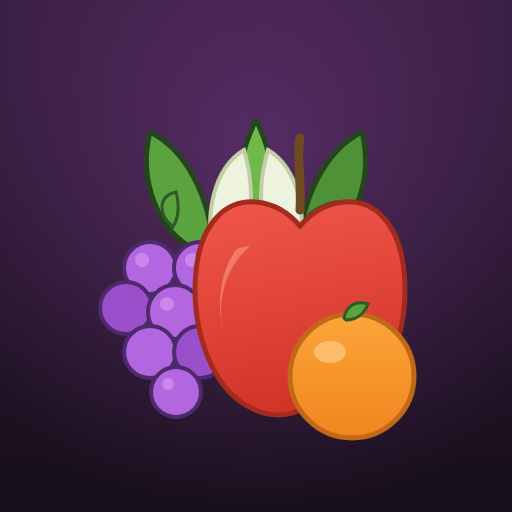
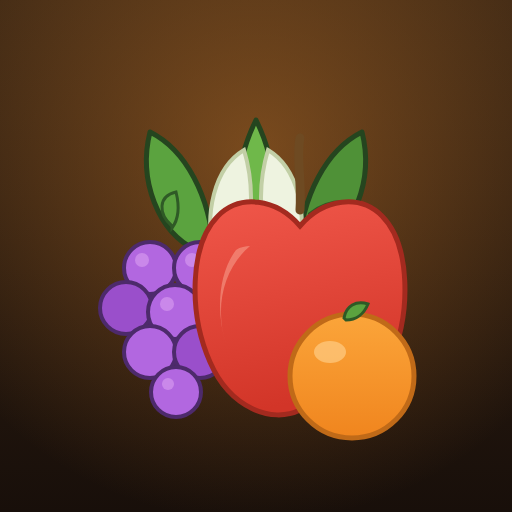
精準進貨：主色改芒果橘＋暖色底，圖示背景同步暖化
- 主色：葡萄紫 → 芒果橘（--leaf #C061E0→#FF9A2E）
- 底色：深莓紫 → 深暖褐（--bg #191016→#1C130F，panel/line 同步暖化）
- 標題／關於 wordmark 漸層、搜尋放大鏡、theme-color、manifest 同步芒果橘暖系
- 漲跌仍用 西瓜紅/奇異果綠/香蕉黃 水果語意色，維持辨識度
- App 圖示背景由莓紫改暖琥珀，蔬果組合不變（蘋果＋葡萄＋柑橘＋葉菜）

Claude-Session: https://claude.ai/code/session_01JVMRULg4pPU2tH4ma1vD4R

diff --git a/index.html b/index.html
@@ -7,7 +7,7 @@
 <link rel="icon" type="image/svg+xml" href="icon.svg" />
 <link rel="icon" type="image/png" sizes="192x192" href="icon-192.png" />
 <link rel="manifest" href="manifest.json" />
-<meta name="theme-color" content="#191016" />
+<meta name="theme-color" content="#1C130F" />
 <meta name="mobile-web-app-capable" content="yes" />
 <meta name="apple-mobile-web-app-capable" content="yes" />
 <meta name="apple-mobile-web-app-status-bar-style" content="black-translucent" />
@@ -18,10 +18,10 @@
   :root[data-fs="s"]{ font-size:16px; } :root[data-fs="m"]{ font-size:19px; }
   :root[data-fs="l"]{ font-size:23px; } :root[data-fs="xl"]{ font-size:28px; }
   :root{
-    /* 精準進貨（商人版）水果配色：深莓紫底＋葡萄/火龍果紫主色，與精準務農綠色系做區別；
+    /* 精準進貨（商人版）水果配色：芒果橘主色＋深暖底，與精準務農綠色系做區別；
        漲跌沿用 西瓜紅(貴)/奇異果綠(便宜)/香蕉黃(持平) 水果語意色 */
-    --bg:#191016; --panel:#241726; --panel2:#301F31; --line:#412940;
-    --leaf:#C061E0; --leaf-dim:#8C3FA8; --paper:#F5EAF0; --muted:#AF95AC;
+    --bg:#1C130F; --panel:#271A13; --panel2:#33241A; --line:#45321F;
+    --leaf:#FF9A2E; --leaf-dim:#B86718; --paper:#F6ECE0; --muted:#B39C86;
     --g:#7CC24A; --y:#F2B705; --o:#E8862E; --r:#E4572E; --cool:#5FB4D6;
     --radius:16px;
   }
@@ -39,9 +39,9 @@
 
   header{display:flex;align-items:center;gap:0.5rem;flex-wrap:wrap;padding-bottom:0.7rem;border-bottom:1px solid var(--line);}
   header h1{font-size:1.6rem;font-weight:900;margin:0;letter-spacing:3px;line-height:1.1;
-    background:linear-gradient(96deg,#FFB03A 0%,#FF6F91 30%,#C061E0 60%,#7CC24A 100%);background-size:220% 100%;
+    background:linear-gradient(96deg,#FFC24A 0%,#FF9A2E 32%,#FF6F3C 66%,#FFC24A 100%);background-size:220% 100%;
     -webkit-background-clip:text;background-clip:text;-webkit-text-fill-color:transparent;color:transparent;
-    filter:drop-shadow(0 1px 6px rgba(192,97,224,.5));animation:hsheen 7s linear infinite;}
+    filter:drop-shadow(0 1px 6px rgba(255,154,46,.5));animation:hsheen 7s linear infinite;}
   @keyframes hsheen{to{background-position:220% 0;}}
   .gear{background:var(--panel2);border:1px solid var(--line);color:var(--paper);
     width:2.4rem;height:2.4rem;border-radius:50%;font-size:1.2rem;display:flex;align-items:center;justify-content:center;flex:0 0 auto;}
@@ -120,7 +120,7 @@
   /* 查價線標籤（右側價格、底部日期），用 HTML 疊在圖上避免 SVG 拉伸變形 */
   .axlabel{position:absolute;font-size:0.72rem;font-weight:800;padding:0.05rem 0.35rem;border-radius:6px;
     pointer-events:none;white-space:nowrap;z-index:2;display:none;}
-  .axlabel.px{background:var(--paper);color:#191016;right:2px;transform:translateY(-50%);}
+  .axlabel.px{background:var(--paper);color:#1C130F;right:2px;transform:translateY(-50%);}
   .axlabel.dt{background:var(--panel2);color:var(--paper);border:1px solid var(--line);bottom:0;transform:translateX(-50%);}
   /* Y 軸最高/最低價刻度（隨公斤/台斤切換），常顯 */
   .axlabel.axmax,.axlabel.axmin{display:block;background:rgba(18,22,14,.7);color:var(--muted);font-weight:700;font-size:0.66rem;right:2px;}
@@ -343,9 +343,9 @@
   .foldh:active{background:var(--panel);}
   .foldh .foldi{color:var(--muted);transition:transform .2s;} .foldh[aria-expanded="true"] .foldi{transform:rotate(90deg);}
   .foldbody{margin-top:0.6rem;}
-  .aboutcard{background:linear-gradient(135deg,#2a1826,#1d1320);border:1px solid var(--line);border-radius:16px;padding:1rem;text-align:center;margin-bottom:0.6rem;}
+  .aboutcard{background:linear-gradient(135deg,#2c1d12,#20140d);border:1px solid var(--line);border-radius:16px;padding:1rem;text-align:center;margin-bottom:0.6rem;}
   .aboutcard .alogo{font-size:1.5rem;font-weight:900;letter-spacing:2px;
-    background:linear-gradient(96deg,#FFB03A 0%,#FF6F91 30%,#C061E0 60%,#7CC24A 100%);
+    background:linear-gradient(96deg,#FFC24A 0%,#FF9A2E 32%,#FF6F3C 66%,#FFC24A 100%);
     -webkit-background-clip:text;background-clip:text;-webkit-text-fill-color:transparent;color:transparent;}
   .aboutcard .atag{font-size:0.78rem;color:var(--muted);margin-top:0.2rem;line-height:1.5;}
   .aver{display:table;margin:0.8rem auto 0.2rem;font-size:0.72rem;color:var(--muted);background:var(--panel2);border:1px solid var(--line);border-radius:999px;padding:0.2rem 0.8rem;}
@@ -660,7 +660,7 @@ function cropSvg(crop,variety){return CROP_SVG[variety]||CROP_SVG[crop]||"";}
 /* 水果品項/品種多、插圖難精準 → 改用放大鏡，點了直接 Google 圖片搜尋看實際照片（零版權，不自存圖） */
 function cropSearchURL(crop,variety){const q=(variety&&variety!==crop)?`${variety} ${crop}`:crop;
   return `https://www.google.com/search?tbm=isch&q=${encodeURIComponent(q)}`;}
-const SEARCH_SVG=`<svg viewBox="0 0 96 96"><circle cx="42" cy="42" r="23" fill="rgba(192,97,224,.14)" stroke="#C061E0" stroke-width="7"/><line x1="59" y1="59" x2="80" y2="80" stroke="#C061E0" stroke-width="8" stroke-linecap="round"/></svg>`;
+const SEARCH_SVG=`<svg viewBox="0 0 96 96"><circle cx="42" cy="42" r="23" fill="rgba(255,154,46,.16)" stroke="#FF9A2E" stroke-width="7"/><line x1="59" y1="59" x2="80" y2="80" stroke="#FF9A2E" stroke-width="8" stroke-linecap="round"/></svg>`;
 /* 蔬菜插圖已全面取消 → 蔬菜用 emoji、水果用放大鏡；點圖示都開「說明」彈窗(內含 Google 查圖) */
 function cropIconHTML(crop,variety){return (cropCat(crop)==="水果")?SEARCH_SVG:cropIcon(crop);}
 const CROP_TIP={
@@ -968,7 +968,7 @@ function drawChart(es){const d=tfSeries(es);QDATA=d;QGEO=null;if(d.length<2)retu
   QANNO=annotate(d);let marks="";
   QANNO.forEach(a=>{const X=x(a.i),yv=y(d[a.i][1].avg),cc=a.pct>=0?"#E4572E":"#5FB85A";
     marks+=`<line x1="${X.toFixed(1)}" y1="${pT}" x2="${X.toFixed(1)}" y2="${(H-pB).toFixed(1)}" stroke="${cc}" stroke-width="1" opacity="0.4" stroke-dasharray="2 3"/>`;
-    marks+=`<circle cx="${X.toFixed(1)}" cy="${yv.toFixed(1)}" r="3.4" fill="${cc}" stroke="#191016" stroke-width="1.1"/>`;});
+    marks+=`<circle cx="${X.toFixed(1)}" cy="${yv.toFixed(1)}" r="3.4" fill="${cc}" stroke="#1C130F" stroke-width="1.1"/>`;});
   const defs=`<defs><linearGradient id="qgrad" x1="0" y1="0" x2="0" y2="1"><stop offset="0" stop-color="${col}" stop-opacity="0.30"/><stop offset="1" stop-color="${col}" stop-opacity="0"/></linearGradient></defs>`;
   return `<svg viewBox="0 0 ${W} ${H}" preserveAspectRatio="none" role="img" aria-label="價格走勢，可滑動查價">${defs}${ribbon}${area}${poly}${marks}<g id="qcross"></g></svg>`;}
 /* 查價線：垂直＝日期(底部標)、水平＝均價(右側標) + 詳細列 */
@@ -1068,12 +1068,12 @@ function drawTyphoonTrack(track){
   let circles="",dots="",labels="";
   km.forEach((k,i)=>{const cx=X(k),cy=Y(k),last=i===0;
     if(pts[i].r15)circles+=`<circle cx="${cx.toFixed(1)}" cy="${cy.toFixed(1)}" r="${(pts[i].r15*scale).toFixed(1)}" fill="rgba(228,87,46,.08)" stroke="rgba(228,87,46,.34)" stroke-width="1"/>`;
-    dots+=`<circle cx="${cx.toFixed(1)}" cy="${cy.toFixed(1)}" r="${last?5:3}" fill="${last?'#E4572E':'#F2B705'}" stroke="#191016" stroke-width="1"/>`;
+    dots+=`<circle cx="${cx.toFixed(1)}" cy="${cy.toFixed(1)}" r="${last?5:3}" fill="${last?'#E4572E':'#F2B705'}" stroke="#1C130F" stroke-width="1"/>`;
     // 逐時日期時間標籤（首/末/隔點顯示，避免太擠）
     if((last||i===km.length-1||i%2===0)&&pts[i].t){const tx=fmtTrackTime(pts[i].t);if(tx)
       labels+=`<text x="${(cx+6).toFixed(1)}" y="${(cy-6).toFixed(1)}" fill="${last?'#F6C6B4':'#c9cdb0'}" font-size="9" font-weight="700">${tx}</text>`;}});
   const rx=X(rk),ry=Y(rk);
-  const ref=`<circle cx="${rx.toFixed(1)}" cy="${ry.toFixed(1)}" r="5.5" fill="#7CC24A" stroke="#191016" stroke-width="1.5"/>`+
+  const ref=`<circle cx="${rx.toFixed(1)}" cy="${ry.toFixed(1)}" r="5.5" fill="#7CC24A" stroke="#1C130F" stroke-width="1.5"/>`+
     `<text x="${(rx+9).toFixed(1)}" y="${(ry+4).toFixed(1)}" fill="#CDE8A0" font-size="12" font-weight="800">${REFNAME}</text>`;
   return `<svg viewBox="0 0 ${W} ${H}" class="tysvg" role="img" aria-label="颱風路徑圖">
     <rect x="0" y="0" width="${W}" height="${H}" fill="#0e1a24"/>${landSVG}